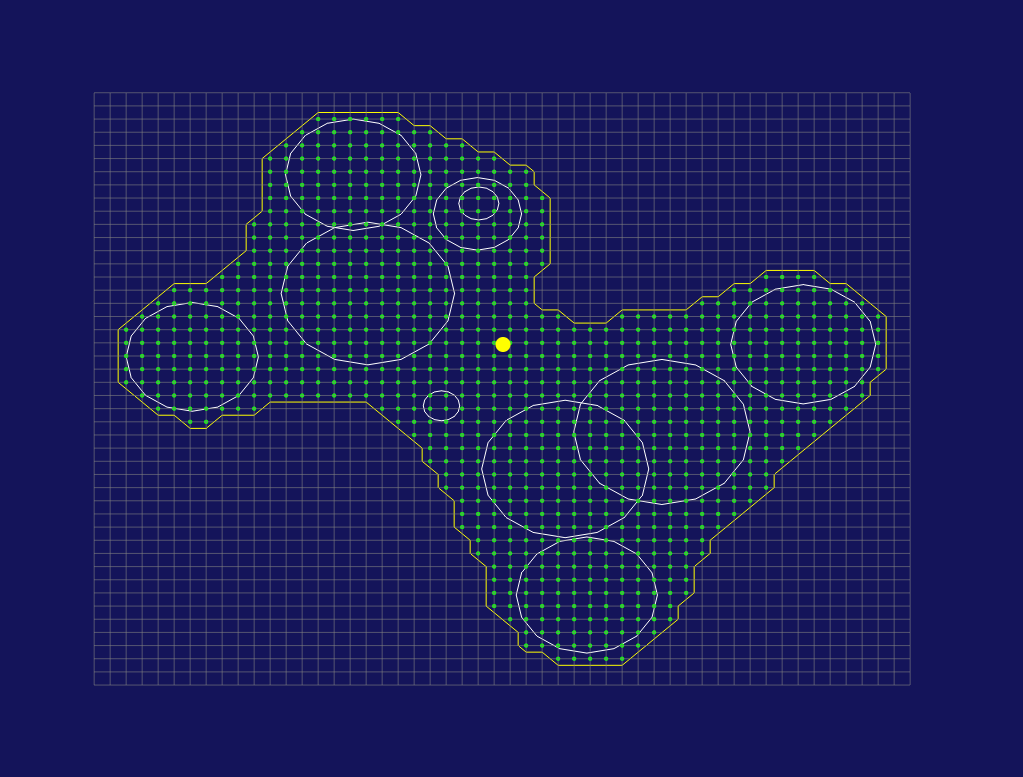
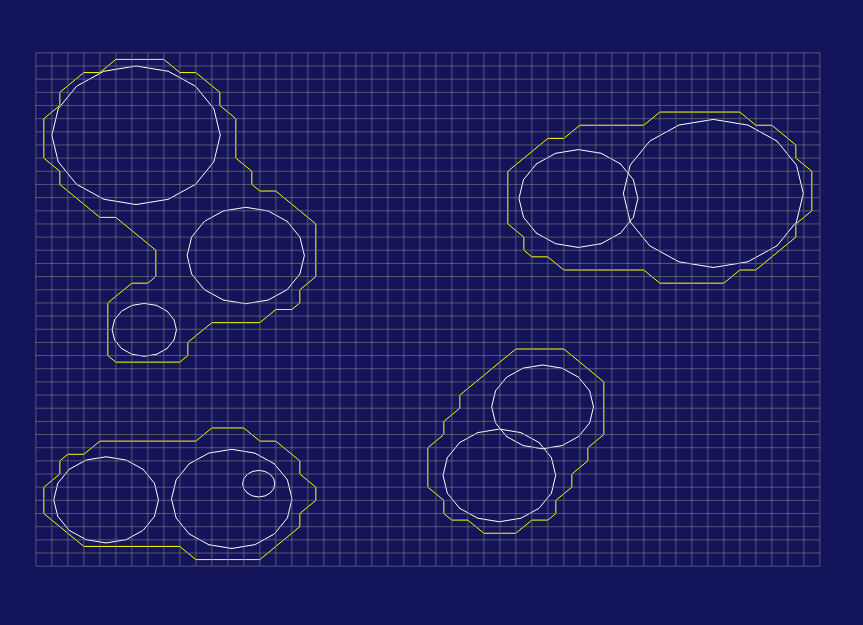
marching squares with multipolygon contouring. no cell interpolation.

Changed region(s): [[0.0301, 0.0912, 0.9641, 0.912]]

diff --git a/src/cpoly.h b/src/cpoly.h
@@ -788,6 +788,7 @@ int cpoly_marching_sq(void* pts, int npts, int stride, float sqside)
     x1=x0-r; y1=y0-r; if ( x1 < minis[0] ) minis[0]=x1; if ( y1 < minis[1] ) minis[1]=y1;
     x1=x0+r; y1=y0+r; if ( x1 > maxis[0] ) maxis[0]=x1; if ( y1 > maxis[1] ) maxis[1]=y1;
   }
+  // expanding one row/col on both sides
   minis[0]-=sqside; maxis[0]+=sqside;
   maxis[1]+=sqside; minis[1]-=sqside;
 
@@ -797,21 +798,16 @@ int cpoly_marching_sq(void* pts, int npts, int stride, float sqside)
   maxis[0] = minis[0]+sqside*stepsx;
   minis[1] = maxis[1]-sqside*stepsy;
 
+  // grid will store the values, 4 bits per cell
   cpoly_rmg_create(&grid,stepsx,stepsy);  
   rowvalues = (float*)cpoly_pool_i; 
   mini=minj=-1;
-  cpoly_pool_vcount=0;
 
   // computing cell values
   {
     // first row (avoid duplicate computation)
     x0=minis[0]; y0=maxis[1]; 
-    for (i=0;i<=stepsx;++i,x0+=sqside)
-    { 
-      rowvalues[i]=cpoly_rmg_func(pts,npts,stride,x0,y0); 
-      if ( rowvalues[i]>=1.0f)
-        cpoly_pool_add_vertex(x0,y0);
-    }
+    for (i=0;i<=stepsx;++i,x0+=sqside) rowvalues[i]=cpoly_rmg_func(pts,npts,stride,x0,y0);
     
     // computing cell corners values for the rest of rows
     y0 = maxis[1]-sqside;
@@ -820,8 +816,8 @@ int cpoly_marching_sq(void* pts, int npts, int stride, float sqside)
       x0 = minis[0]+sqside;
       for (i=0;i<stepsx;++i,x0+=sqside)
       {
-        c0=cpoly_rmg_func(pts,npts,stride,x0-sqside,y0); if ( c0>=1.0f) cpoly_pool_add_vertex(x0-sqside,y0);
-        c1=cpoly_rmg_func(pts,npts,stride,x0,y0);        if ( c1>=1.0f) cpoly_pool_add_vertex(x0,y0);
+        c0=cpoly_rmg_func(pts,npts,stride,x0-sqside,y0);
+        c1=cpoly_rmg_func(pts,npts,stride,x0,y0);
         c2=rowvalues[i+1];
         c3=rowvalues[i];
         k=cpoly_rmg_cellvalue(c0,c1,c2,c3);
@@ -833,22 +829,26 @@ int cpoly_marching_sq(void* pts, int npts, int stride, float sqside)
           else if ( j==stepsy-1 ) k=12;
         }
         cpoly_rmg_set(&grid,i,j,k);
-        if ( k && mini==-1){ mini=i; minj=j; }
+        if ( k && mini==-1){ mini=i; minj=j; } // finding first valid cell from top,left
         rowvalues[i]=c0;
       }
       rowvalues[i]=c1;
     }
   }
-  cpoly_pool_icount=cpoly_pool_vcount; // temporary hack for debug
+
+  // adding poly vertices
+  cpoly_pool_vcount=cpoly_pool_icount=0;
+  c0=sqside*0.5f;
 
   // outlining a polygon (clock wise)
+  do 
   {
     i=mini; j=minj;
-    c0=sqside*0.5f;
     dir=0;
     do 
     {
       k=cpoly_rmg_get(&grid,i,j);
+      if ( k!=5 && k!=10 ) cpoly_rmg_set(&grid,i,j,0);
       x0=minis[0]+sqside*i; x1=x0+c0; x2=x0+sqside; // left, med, right (HORIZ)
       y0=maxis[1]-sqside*j; y1=y0-c0; y2=y0-sqside; // top, med, bottom (VERTI)
       switch ( k )
@@ -872,24 +872,42 @@ int cpoly_marching_sq(void* pts, int npts, int stride, float sqside)
         }
       break;
       default: 
-        goto end;
+        goto exitPoly;
       }
 
       // advance CW, caution with boundaries
       do
       {
         dir=0;
-        if ( i<0 ){ i=0; --j; dir=1;}
+        if ( i<0 )      { i=0; --j; dir=1;}
         if ( i>=stepsx ){ i=stepsx-1; ++j; dir=1;}
-        if ( j<0 ){ j=0; ++i; dir=1; }
+        if ( j<0 )      { j=0; ++i; dir=1; }
         if ( j>=stepsy ){ j=stepsy-1; --i; dir=1; }
       }while(dir);
 
-      dir = k; // last k
-    } while (i!=mini ||j!=minj);
-    
-  }
-  end:
+      dir = k; // last k in dir
+    } while (i!=mini ||j!=minj); // until we reach first cell again
+exitPoly:
+    cpoly_pool_add_index(cpoly_pool_vcount);
+
+    // find other polygon
+    {
+      j=minj;
+      minj=mini=-1;
+      for (;j<stepsy && minj==-1;++j)
+      {
+        for (i=0;i<stepsx;++i)
+        {
+          k=cpoly_rmg_get(&grid,i,j);
+          if ( k>0 && k<15 && k!=5 && k!=10)
+          {
+            mini=i; minj=j;
+            break;
+          }
+        }
+      }
+    }
+  } while ( mini!=-1 && minj!=-1 );
   cpoly_rmg_destroy(&grid);
   return cpoly_pool_vcount;
 }

diff --git a/example/example4.c b/example/example4.c
@@ -77,7 +77,7 @@ void drawgrid()
 void frame(GLFWwindow* window)
 {
 	int width = 0, height = 0;
-  int i;
+  int i,j,k;
   static float globalTime=0.0f;
   float x,y;
 
@@ -103,42 +103,51 @@ void frame(GLFWwindow* window)
 	glBlendFunc(GL_SRC_ALPHA,GL_ONE_MINUS_SRC_ALPHA);
 
   
-  for (i=0;i<MAXCIRCLES;++i)
-  {
-    drawCircle(g_circles[i].x, g_circles[i].y, g_circles[i].r, WHITE, 0, 0, 16.0f);
-  }
-
   if ( glfwGetKey(window,GLFW_KEY_1)==GLFW_PRESS )
   {
     glPointSize(4.0f);
-    cpoly_marching_sq(g_circles,MAXCIRCLES,sizeof(sCircle),SQSIDE);
-    
-    glColor4f(0,1,0,1);
-    glBegin(GL_POINTS);
-    for ( i=0;i<cpoly_pool_icount;++i )
-    {
-      cpoly_pool_get_vertex(i,&x,&y);
-      glVertex2f(x,y);
-    }
-    glEnd();
-
+    cpoly_marching_sq(g_circles,MAXCIRCLES,sizeof(sCircle),SQSIDE);    
     glLineWidth(1.0f);
     glColor4f(1,1,0,1);
-    glBegin(GL_LINE_LOOP);
-    for ( ;i<cpoly_pool_vcount;++i )
+
+    k=0;
+    for (i=0;i<cpoly_pool_icount;++i)
     {
-      cpoly_pool_get_vertex(i,&x,&y);
-      glVertex2f(x,y);
+      glBegin(GL_LINE_LOOP);
+      for (j=k;j<cpoly_pool_get_index(i);++j )
+      {
+        cpoly_pool_get_vertex(j,&x,&y);
+        glVertex2f(x,y);
+      }
+      glEnd();
+      k=j;
     }
-    glEnd();
+
+//     cpoly_convex_hull(cpoly_pool_v,cpoly_pool_get_index(0),sizeof(float)*2);
+//     glColor4ub(0,255,0,255);
+//     glBegin(GL_LINE_LOOP);
+//     for ( i=0; i < cpoly_pool_icount; ++i )
+//     {
+//       j = cpoly_pool_get_index(i);
+//       cpoly_pool_get_vertex(j,&x,&y);
+//       glVertex2f( x,y );
+//     }
+//     glEnd();
+  }
+  //else
+  {
+    for (i=0;i<MAXCIRCLES;++i)
+    {
+      drawCircle(g_circles[i].x, g_circles[i].y, g_circles[i].r, WHITE, 0, 0, 16.0f);
+    }
   }
   drawgrid();
 	
-  glPointSize(15.0f);
-  glColor4ub(255,255,0,255);
-  glBegin(GL_POINTS);
-  glVertex2f(0,0);
-  glEnd();
+//   glPointSize(15.0f);
+//   glColor4ub(255,255,0,255);
+//   glBegin(GL_POINTS);
+//   glVertex2f(0,0);
+//   glEnd();
 
   glfwSwapBuffers(window);
 }
